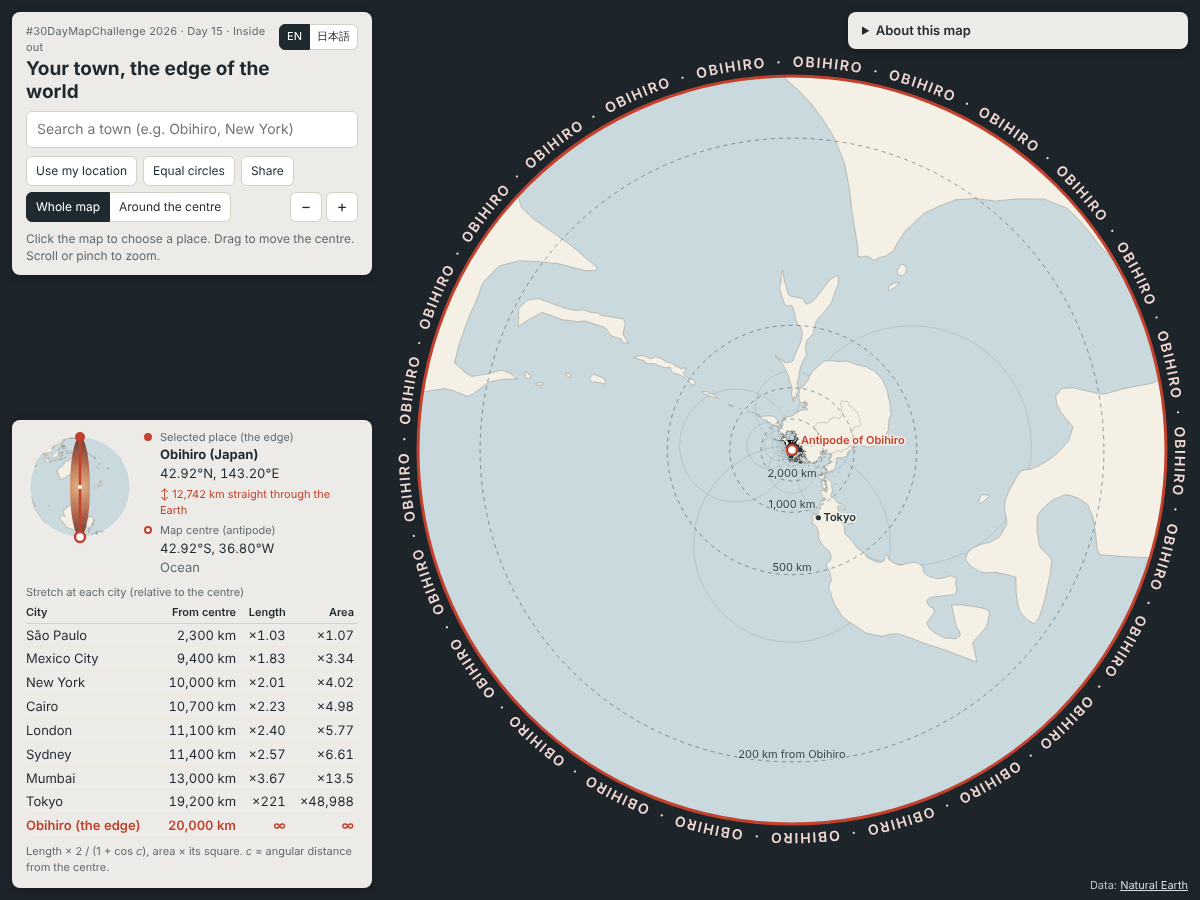
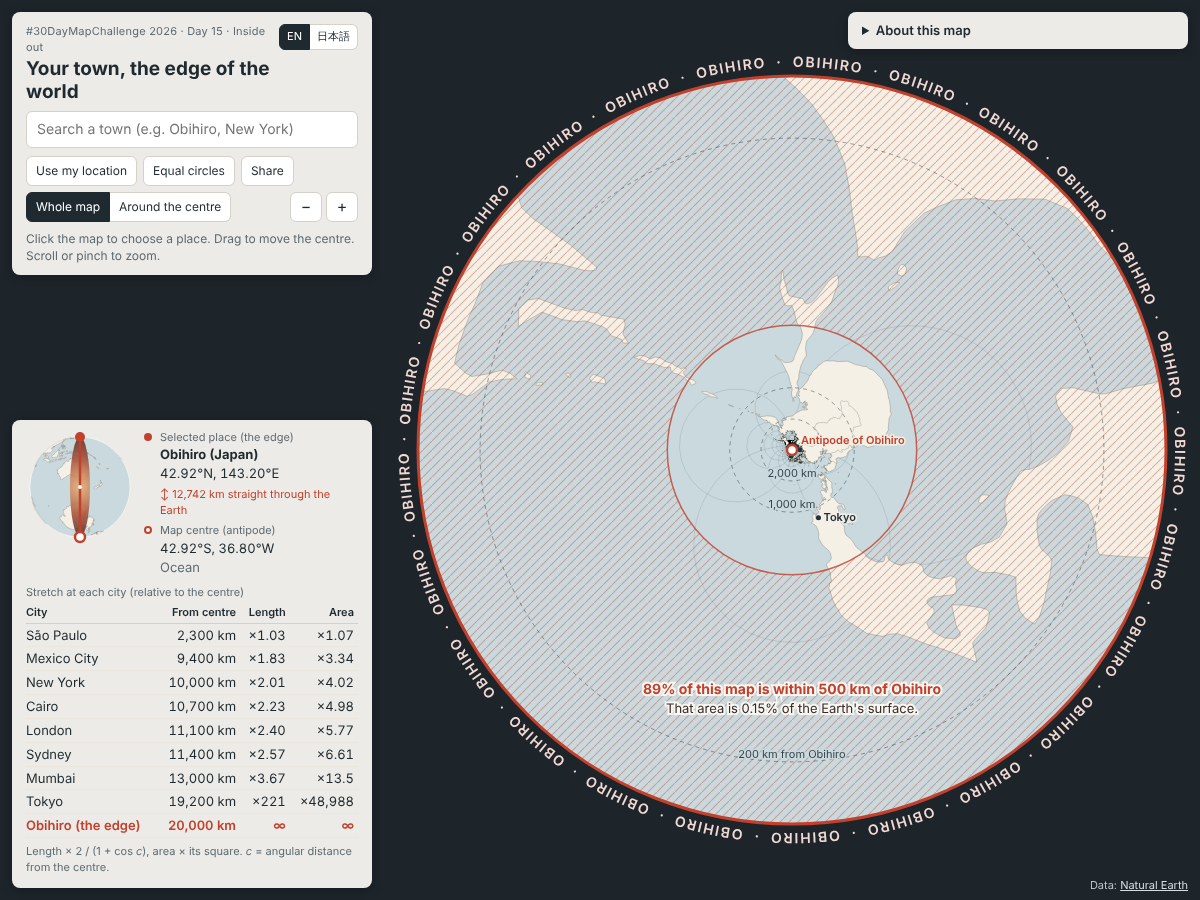
Show the area within 500 km of the selected place as a band, and return to the whole map after zooming in

Changed region(s): [[0.37, 0.0933, 0.9558, 0.9022]]

diff --git a/app.js b/app.js
@@ -57,7 +57,7 @@
       aboutH1: "What is wrong with this map",
       aboutP1: "This is a stereographic projection. It keeps angles correct, so small shapes look right, but sizes grow the farther you go from the centre.",
       aboutP2: "On a Mercator map, things get bigger the farther they are from the equator. On this map, things get bigger the farther they are from the centre.",
-      aboutP3: "The centre here is the antipode of the place you chose — the point on the exact opposite side of the Earth. The antipode of the centre would be stretched to infinite size, so the place you chose cannot be drawn as a point. It wraps around the whole map as its outer edge.",
+      aboutP3: "The centre here is the antipode of the place you chose — the point on the exact opposite side of the Earth. The antipode of the centre would be stretched to infinite size, so the place you chose cannot be drawn as a point. It wraps around the whole map as its outer edge. The area within 500 km of it (the red band) fills 89% of the map, and the rest of the world is squeezed into the middle.",
       notesH: "Notes",
       note1: "The map is cut at 178.5° from the centre. The small area within 1.5° (about 170 km) of the chosen place cannot be drawn; the outer circle stands for it.",
       note2: "Your location is used only inside your browser. It is not sent anywhere and not saved. It is added to a link only if you press Share and confirm.",
@@ -77,6 +77,7 @@
       viewEdge: "Whole map",
       viewCentre: "Around the centre",
       viewLabel: "View",
+      shareCaption: (n, m, e) => [`${m}% of this map is within 500 km of ${n}`, `That area is ${e}% of the Earth's surface.`],
       near: "near",
       geoUnsupported: "This browser cannot provide a location.",
       geoWaiting: "Getting your location…",
@@ -113,7 +114,7 @@
       aboutH1: "この地図のどこがおかしいか",
       aboutP1: "これはステレオ図法（平射図法）の世界地図です。角度が正しい図法なので小さな形は正しく見えますが、中心から離れるほど大きく描かれます。",
       aboutP2: "メルカトル図法では赤道から離れるほど大きくなります。この地図では、中心から離れるほど大きくなります。",
-      aboutP3: "地図の中心は、選んだ場所の地球の裏側です。中心の裏側の点は無限大に引き伸ばされるので、選んだ場所は点として描けません。そのため地図全体を囲む外周になります。",
+      aboutP3: "地図の中心は、選んだ場所の地球の裏側です。中心の裏側の点は無限大に引き伸ばされるので、選んだ場所は点として描けません。そのため地図全体を囲む外周になります。選んだ場所から500 km以内（赤い帯）が地図の89%を占め、残りの世界は中央に押し込まれます。",
       notesH: "注記",
       note1: "中心から178.5°より外側は切り取っています。選んだ場所から1.5°（約170 km）以内は描けないため、外周の円がその場所を表します。",
       note2: "位置情報はブラウザの中だけで使い、どこにも送信せず、保存もしません。「共有」を押して確認したときだけ、リンクに含めます。",
@@ -133,6 +134,7 @@
       viewEdge: "外周まで",
       viewCentre: "中心付近",
       viewLabel: "表示",
+      shareCaption: (n, m, e) => [`この地図の${m}%は、${n}から500 km以内`, `地球の表面では、わずか${e}%の範囲です`],
       near: "付近",
       geoUnsupported: "このブラウザでは位置情報を使えません。",
       geoWaiting: "現在地を取得しています…",
@@ -231,6 +233,7 @@
 
   // ---------- layout ----------
   function resize() {
+    hatchPattern = null;
     dpr = Math.min(window.devicePixelRatio || 1, 2);
     width = window.innerWidth;
     height = window.innerHeight;
@@ -310,6 +313,7 @@
     }
 
     const boxes = [];
+    drawShareBand();
     drawRings(boxes);
     drawCities(boxes);
     drawCentre(boxes);
@@ -318,7 +322,58 @@
     ctx.restore();
 
     drawEdge();
+    drawShareCaption();
     if (!globeTimer) drawGlobe();
+  }
+
+  // The band within SHARE_KM of the selected place. On this map it takes most of
+  // the disc, while on the globe it is a tiny patch.
+  const SHARE_KM = 500;
+  function shareNumbers() {
+    const half = (CLIP / 2) * Math.PI / 180;
+    const rel = Math.tan((Math.PI - SHARE_KM / EARTH_R) / 2) / Math.tan(half);
+    return { map: 1 - rel * rel, earth: (1 - Math.cos(SHARE_KM / EARTH_R)) / 2, rel };
+  }
+  function edgeRadius() { return baseScale * state.k * Math.tan(((CLIP / 2) * Math.PI) / 180); }
+
+  let hatchPattern = null;
+  function hatch() {
+    if (hatchPattern) return hatchPattern;
+    const c = document.createElement("canvas");
+    const n = Math.round(9 * dpr);
+    c.width = c.height = n;
+    const g = c.getContext("2d");
+    g.strokeStyle = "rgba(194, 65, 45, 0.38)"; g.lineWidth = 1.1 * dpr;
+    g.beginPath(); g.moveTo(-1, n + 1); g.lineTo(n + 1, -1); g.stroke();
+    hatchPattern = ctx.createPattern(c, "repeat");
+    hatchPattern.setTransform(new DOMMatrix([1 / dpr, 0, 0, 1 / dpr, 0, 0]));
+    return hatchPattern;
+  }
+
+  function drawShareBand() {
+    const rEdge = edgeRadius(), r = rEdge * shareNumbers().rel;
+    if (r > Math.hypot(width, height)) return;
+    ctx.beginPath();
+    ctx.arc(cx, cy, rEdge, 0, 2 * Math.PI);
+    ctx.arc(cx, cy, r, 0, 2 * Math.PI, true);
+    ctx.fillStyle = hatch(); ctx.fill();
+    ctx.beginPath(); ctx.arc(cx, cy, r, 0, 2 * Math.PI);
+    ctx.lineWidth = 1.5; ctx.strokeStyle = "rgba(194, 65, 45, 0.8)"; ctx.stroke();
+  }
+
+  function drawShareCaption() {
+    const rEdge = edgeRadius(), n = shareNumbers(), r = rEdge * n.rel;
+    const y = cy + (r + rEdge) / 2;
+    if (width < 760 || r > Math.hypot(width, height) || y > height - 10) return; // phones: shown in the panel
+    const fs = width < 760 ? 12 : 14;
+    const [l1, l2] = t("shareCaption")(shortName(), Math.round(n.map * 100), (n.earth * 100).toFixed(2));
+    ctx.textAlign = "center"; ctx.textBaseline = "middle";
+    ctx.font = `700 ${fs}px system-ui, -apple-system, 'Segoe UI', 'Hiragino Sans', sans-serif`;
+    ctx.lineWidth = 4; ctx.strokeStyle = "rgba(250,248,243,0.92)";
+    ctx.strokeText(l1, cx, y - fs * 0.7); ctx.fillStyle = COLORS.edge; ctx.fillText(l1, cx, y - fs * 0.7);
+    ctx.font = `${fs - 1}px system-ui, -apple-system, 'Segoe UI', 'Hiragino Sans', sans-serif`;
+    ctx.strokeText(l2, cx, y + fs * 0.7); ctx.fillStyle = "#3a2a26"; ctx.fillText(l2, cx, y + fs * 0.7);
+    ctx.textAlign = "start";
   }
 
   // Circles at fixed ground distances from the selected place. Around the
@@ -337,6 +392,7 @@
     const name = shortName();
     let first = true;
     for (const km of RING_KM) {
+      if (km === SHARE_KM) continue;
       const c = Math.PI - km / EARTH_R; // angle from the centre
       if (c > (CLIP * Math.PI) / 180) continue;
       const r = R * Math.tan(c / 2);
@@ -606,6 +662,9 @@
       for (const v of cells) { const td = document.createElement("td"); td.textContent = v; tr.appendChild(td); }
       return tr;
     }));
+    const n = shareNumbers();
+    const [l1, l2] = t("shareCaption")(name, Math.round(n.map * 100), (n.earth * 100).toFixed(2));
+    $("shareNote").textContent = `${l1}. ${l2}`.replace("。.", "。").replace(/以内\. /, "以内。");
     updateCentreKind();
   }
 
@@ -642,11 +701,17 @@
     const target = antipode(sel.lon, sel.lat);
     if (animate && !reduceMotion.matches) {
       if (state.k > 1.05) zoomTo(1, 800);
-      animateTo(target, () => { viewTimer = setTimeout(() => zoomTo(centreK(), 1600), 450); });
+      // turn → zoom in to show where the centre is → back out to the whole, inside-out map
+      animateTo(target, () => {
+        viewTimer = setTimeout(() => {
+          zoomTo(centreK(), 1600);
+          viewTimer = setTimeout(() => zoomTo(1, 1800), 1600 + 2800);
+        }, 450);
+      });
     } else {
       stopAnim();
       state.centre = target;
-      zoomTo(centreK(), 0);
+      zoomTo(1, 0);
       render(false);
     }
     updateInfo();

diff --git a/index.html b/index.html
@@ -66,6 +66,7 @@
       </div>
     </dl>
   </div>
+  <p class="share-note" id="shareNote"></p>
   <div class="mobile-row">
     <button type="button" class="info-toggle" id="infoToggle" aria-expanded="true" aria-controls="infoBody" data-i18n="details">Details</button>
     <button type="button" id="aboutBtn" aria-controls="about" data-i18n="about">About this map</button>
@@ -87,7 +88,7 @@
     <h2 data-i18n="aboutH1">What is wrong with this map</h2>
     <p data-i18n="aboutP1">This is a stereographic projection. It keeps angles correct, so small shapes look right, but sizes grow the farther you go from the centre.</p>
     <p data-i18n="aboutP2">On a Mercator map, things get bigger the farther they are from the equator. On this map, things get bigger the farther they are from the centre.</p>
-    <p data-i18n="aboutP3">The centre here is the antipode of the place you chose — the point on the exact opposite side of the Earth. The antipode of the centre would be stretched to infinite size, so the place you chose cannot be drawn as a point. It wraps around the whole map as its outer edge.</p>
+    <p data-i18n="aboutP3">The centre here is the antipode of the place you chose — the point on the exact opposite side of the Earth. The antipode of the centre would be stretched to infinite size, so the place you chose cannot be drawn as a point. It wraps around the whole map as its outer edge. The area within 500 km of it (the red band) fills 89% of the map, and the rest of the world is squeezed into the middle.</p>
     <h2 data-i18n="notesH">Notes</h2>
     <ul>
       <li data-i18n="note1">The map is cut at 178.5° from the centre. The small area within 1.5° (about 170 km) of the chosen place cannot be drawn; the outer circle stands for it.</li>

diff --git a/style.css b/style.css
@@ -73,6 +73,7 @@ button[aria-pressed="true"] { background: var(--ink); color: #fff; border-color:
 
 .info { left: 12px; bottom: 12px; width: 360px; max-width: calc(100vw - 24px); padding: 10px 14px 12px; z-index: 2; max-height: calc(100vh - 300px); overflow-y: auto; }
 .mobile-row { display: none; }
+.share-note { display: none; margin: 0 0 6px; font-size: 12px; font-weight: 600; color: var(--accent); }
 .link { display: flex; gap: 10px; align-items: stretch; margin-bottom: 8px; }
 #globe { flex-shrink: 0; display: block; }
 .facts { margin: 0; display: flex; flex-direction: column; justify-content: space-between; min-width: 0; flex: 1; }
@@ -121,6 +122,7 @@ a { color: #1d5f8a; }
   .facts dd .mono, #ctrKind { display: inline; }
   .facts .sel dd .mono { margin-left: 4px; }
   .mobile-row { display: flex; gap: 6px; }
+  .share-note { display: block; }
   .mobile-row button { min-height: 28px; padding: 2px 10px; }
   .about:not([open]) { display: none; }
   .info.collapsed #infoBody { display: none; }

diff --git a/README.md b/README.md
@@ -17,7 +17,8 @@ The page is in English and can be switched to Japanese (日本語).
 
 - **Search** a town by its English name. Major cities, and towns in Japan, can also be found by their Japanese name (e.g. 帯広).
 - **Click** the map to choose that point. The centre turns smoothly to the new antipode (switched instantly when the device asks for reduced motion).
-- After a place is chosen, the map turns with the whole disc in view, so you can see the new edge, and then zooms in on the area around the centre. **Whole map / Around the centre** switch between the two views.
+- After a place is chosen, the map turns with the whole disc in view, zooms in on the area around the centre to show where it is, and then returns to the whole map. **Whole map / Around the centre** switch between the two views.
+- The red band is everything within 500 km of the selected place. It covers 89% of the map, but only 0.15% of the Earth's surface.
 - **Drag** to move the centre. **Scroll / pinch** to zoom.
 - Country names appear where the map is enlarged enough to fit them.
 - **Use my location** picks your current position from the browser and makes it the edge. A blue marker for it stays on the map when you choose other places, until the page is reloaded.
